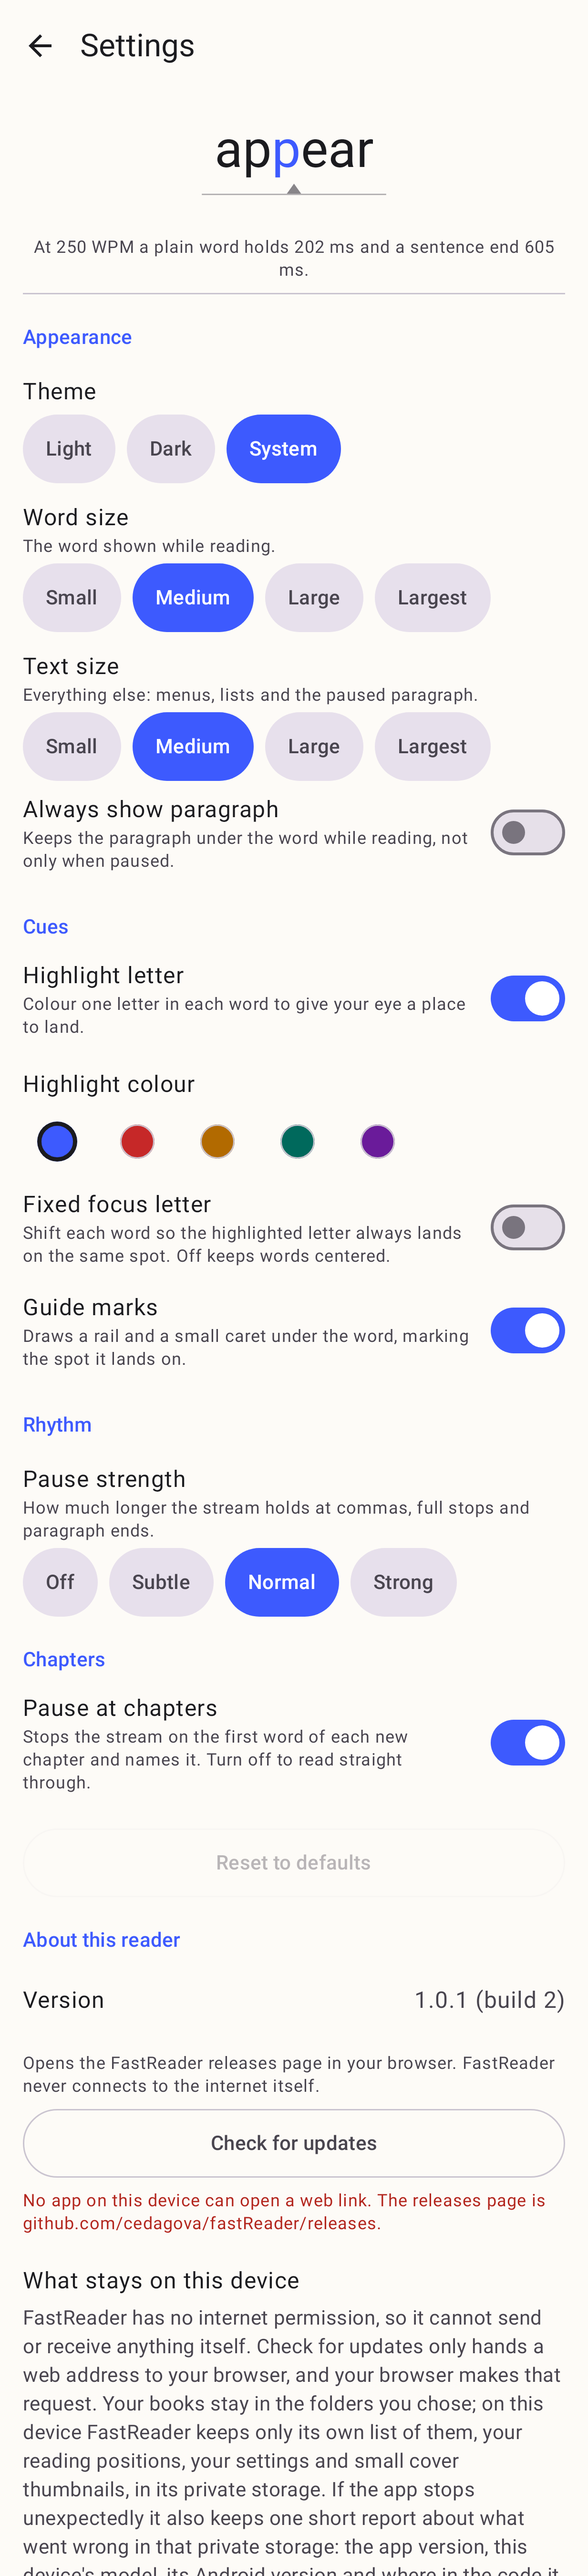
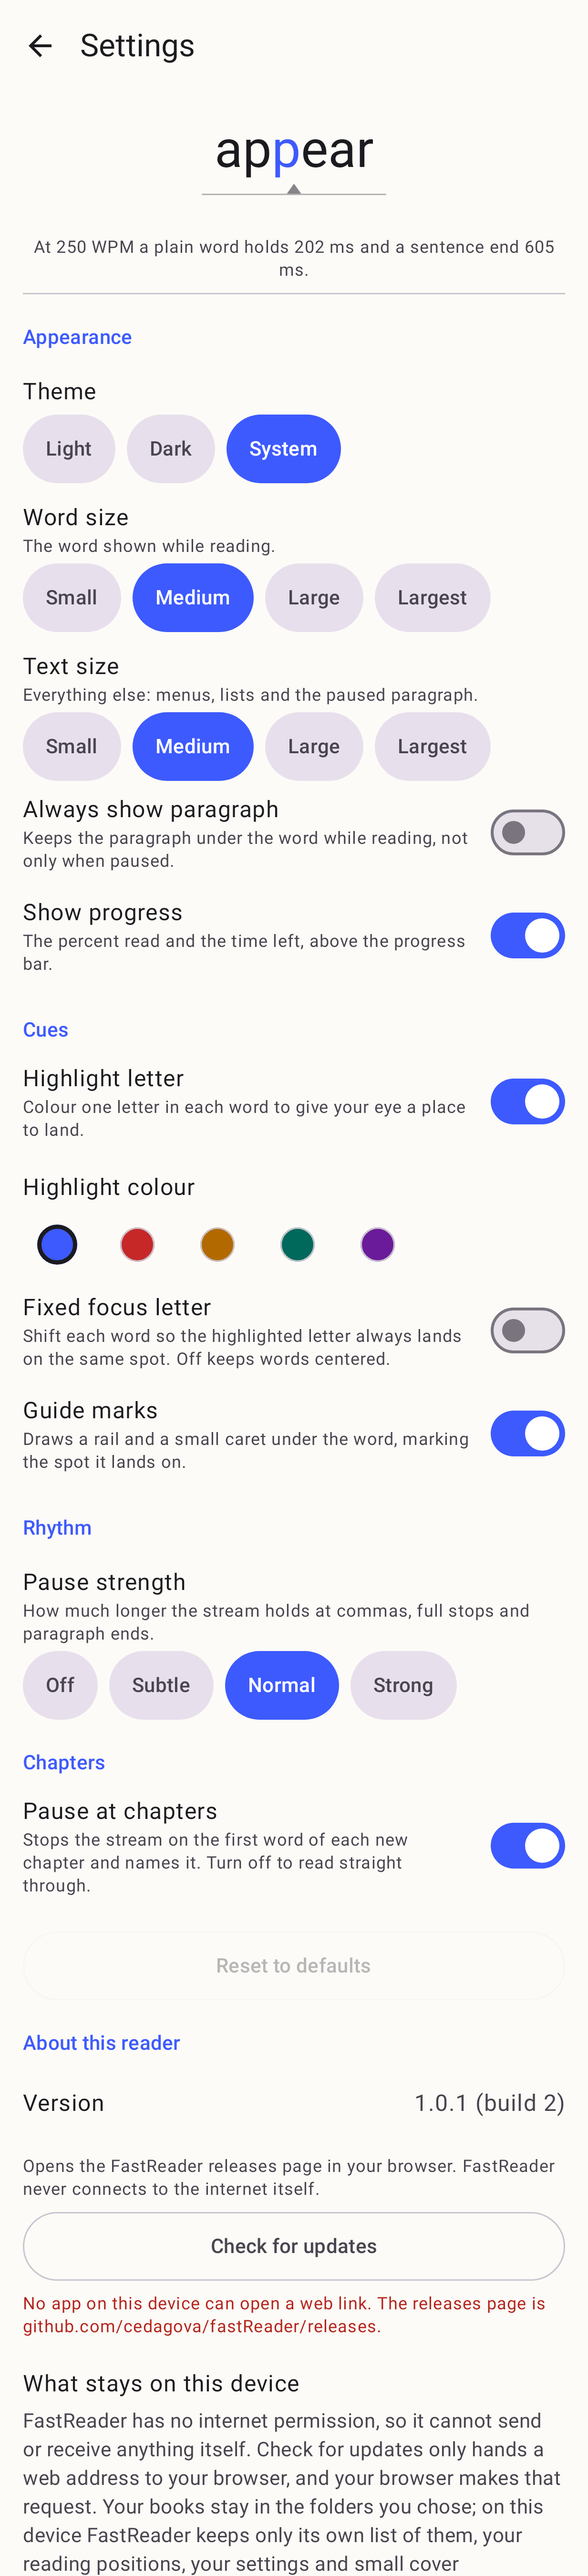
Add a "Show progress" setting for the percent and time-left readouts
A new Appearance switch, on by default, hides the two REQ-017 readouts above
the progress bar. The bar, which is also the scrub control, and the chapter
row stay. Catalog schema 10 writes `progressShown` as `true` so an updating
reader keeps what they had.

Tests: default and reset semantics, the 9 → 10 migration with and without a
settings block, store round trip, a reader golden with the readouts hidden,
and settings goldens re-recorded for the new row.

diff --git a/app/src/test/java/com/cedagova/fastreader/library/store/CatalogStoreTest.kt b/app/src/test/java/com/cedagova/fastreader/library/store/CatalogStoreTest.kt
@@ -647,6 +647,49 @@ class CatalogStoreTest {
     }
 
     /** The choice, once made, survives a round trip through the store. */
+    /**
+     * Schema 10 makes the progress readouts a choice. The updating reader keeps
+     * the percent and time they had: `progressShown` comes forward as `true`,
+     * written out, with every other setting where it was.
+     */
+    @Test
+    fun `a version 9 document keeps the progress readouts`() {
+        val v9 = """
+            {"schemaVersion":9,"books":[],"folders":[],"readingStates":{},
+             "settings":{"theme":"DARK","fontSize":"LARGE","wordSize":"SMALL","paragraphAlwaysShown":true}}
+        """.trimIndent()
+
+        val decoded = CatalogCodec().decode(v9) as CatalogDecoding.Decoded
+
+        assertEquals(9, decoded.migratedFrom)
+        assertEquals(CatalogSchema.CURRENT_VERSION, decoded.catalog.schemaVersion)
+        assertTrue(decoded.catalog.settings.progressShown)
+        assertTrue(decoded.catalog.settings.paragraphAlwaysShown)
+        assertEquals(ThemeChoice.DARK, decoded.catalog.settings.theme)
+        assertEquals(FontSize.LARGE, decoded.catalog.settings.fontSize)
+        assertEquals(FontSize.SMALL, decoded.catalog.settings.wordSize)
+    }
+
+    @Test
+    fun `a version 9 document without a settings block still migrates`() {
+        val noSettings = """{"schemaVersion":9,"books":[],"folders":[],"readingStates":{}}"""
+        val wrongShape = """{"schemaVersion":9,"books":[],"folders":[],"readingStates":{},"settings":7}"""
+
+        val decoded = CatalogCodec().decode(noSettings) as CatalogDecoding.Decoded
+        assertEquals(CatalogSchema.CURRENT_VERSION, decoded.catalog.schemaVersion)
+        assertTrue(decoded.catalog.settings.progressShown)
+        assertTrue(CatalogCodec().decode(wrongShape) !is CatalogDecoding.Newer)
+    }
+
+    @Test
+    fun `hidden progress readouts round trip through the store`() {
+        val store = FileCatalogStore(file)
+        store.save(Catalog(settings = ReaderSettings.DEFAULTS.copy(progressShown = false)))
+
+        val loaded = (store.load() as CatalogLoad.Loaded).catalog
+        assertFalse(loaded.settings.progressShown)
+    }
+
     @Test
     fun `the always-shown paragraph round trips through the store`() {
         val store = FileCatalogStore(file)

diff --git a/app/src/test/java/com/cedagova/fastreader/reader/ui/ReaderScreenScreenshotTest.kt b/app/src/test/java/com/cedagova/fastreader/reader/ui/ReaderScreenScreenshotTest.kt
@@ -4,6 +4,7 @@ import androidx.compose.runtime.Composable
 import androidx.compose.runtime.CompositionLocalProvider
 import androidx.compose.ui.platform.LocalDensity
 import androidx.compose.ui.test.junit4.createComposeRule
+import androidx.compose.ui.test.onNodeWithTag
 import androidx.compose.ui.test.onRoot
 import androidx.compose.ui.unit.Density
 import androidx.test.ext.junit.runners.AndroidJUnit4
@@ -121,6 +122,19 @@ class ReaderScreenScreenshotTest {
             pausedAt(0),
             frontMatterOffer = "Chapter One: The Approach",
         )
+    }
+
+    /**
+     * "Show progress" off: the percent and time-left readouts go, and nothing else
+     * does — the chapter row above them and the bar, which is the scrub control,
+     * below them stay exactly where they were.
+     */
+    @Test
+    fun hidingProgressRemovesOnlyTheTwoReadouts() {
+        capture("reader_progress_hidden", pausedAt(12), progressShown = false)
+        composeRule.onNodeWithTag("reader_progress").assertDoesNotExist()
+        composeRule.onNodeWithTag("reader_scrub").assertExists()
+        composeRule.onNodeWithTag("reader_chapters").assertExists()
     }
 
     @Test
@@ -516,6 +530,7 @@ class ReaderScreenScreenshotTest {
         externalNotice: Boolean = false,
         speedNotice: String? = null,
         frontMatterOffer: String? = null,
+        progressShown: Boolean = true,
     ) {
         composeRule.setContent {
             ScaledFonts(fontScale) {
@@ -536,6 +551,7 @@ class ReaderScreenScreenshotTest {
                         externalNotice = externalNotice,
                         speedNotice = speedNotice,
                         frontMatterOffer = frontMatterOffer,
+                        progressShown = progressShown,
                     )
                 }
             }

diff --git a/app/src/main/java/com/cedagova/fastreader/library/store/ProgressShownV10Migration.kt b/app/src/main/java/com/cedagova/fastreader/library/store/ProgressShownV10Migration.kt
@@ -1,0 +1,34 @@
+package com.cedagova.fastreader.library.store
+
+import kotlinx.serialization.json.JsonObject
+import kotlinx.serialization.json.JsonPrimitive
+
+/**
+ * Schema 9 → 10: the progress readouts become a choice.
+ *
+ * The percent read and the time left (REQ-017) have always sat above the
+ * progress bar. They can now be turned off, and this step decides what an
+ * updating reader gets: **what they had**. `progressShown` is written as `true`,
+ * so nothing under their stream changes on the first launch after the update.
+ *
+ * The value is written out rather than left to
+ * [com.cedagova.fastreader.settings.ReaderSettings]'s default, for the same
+ * reason every earlier step writes its decision: the migrated document then
+ * records what this step decided instead of inheriting a default a later change
+ * could move.
+ *
+ * A document with no `settings` block at all is returned exactly as it arrived:
+ * every field of that document already reads back as its documented default, and
+ * `progressShown` defaults to the same `true` this step would have written. A
+ * `settings` value that is not an object falls through untouched rather than
+ * throwing, because a throw here escapes [CatalogCodec.decode]'s guard and would
+ * set aside the reader's whole library.
+ */
+internal object ProgressShownV10Migration : CatalogMigration {
+
+    override fun migrate(document: JsonObject): JsonObject {
+        val settings = document["settings"] as? JsonObject ?: return document
+        val migrated = settings + ("progressShown" to JsonPrimitive(true))
+        return JsonObject(document + ("settings" to JsonObject(migrated)))
+    }
+}

diff --git a/app/src/main/java/com/cedagova/fastreader/reader/ui/ReaderScreen.kt b/app/src/main/java/com/cedagova/fastreader/reader/ui/ReaderScreen.kt
@@ -199,6 +199,8 @@ fun ReaderScreen(
     onChapterSelected: (Int) -> Unit,
     modifier: Modifier = Modifier,
     cues: CueSettings = CueSettings(),
+    /** REQ-017's readouts, the percent read and the time left. Off hides only them: the bar and chapter row stay. */
+    progressShown: Boolean = true,
     /** REQ-030: chrome hidden, stream and cues left alone. */
     focused: Boolean = false,
     onToggleFocused: () -> Unit = {},
@@ -332,6 +334,7 @@ fun ReaderScreen(
                             onBackParagraph = onBackParagraph,
                             onForwardParagraph = onForwardParagraph,
                             onScrub = onScrub,
+                            progressShown = progressShown,
                             onOpenChapters = { chapterPickerOpen = true },
                             modifier = slot,
                             verticalArrangement = arrangement,
@@ -961,6 +964,7 @@ private fun ReaderControls(
     onForwardParagraph: () -> Unit,
     onScrub: (Float) -> Unit,
     onOpenChapters: () -> Unit,
+    progressShown: Boolean,
     modifier: Modifier = Modifier,
     verticalArrangement: Arrangement.Vertical = Arrangement.Top,
 ) {
@@ -969,7 +973,7 @@ private fun ReaderControls(
         verticalArrangement = verticalArrangement,
     ) {
         ChapterRow(state = state, onOpenChapters = onOpenChapters)
-        ProgressRow(state)
+        if (progressShown) ProgressRow(state)
         PositionControl(state = state, onScrub = onScrub)
         Transport(
             state = state,

diff --git a/app/src/main/java/com/cedagova/fastreader/settings/ui/SettingsScreen.kt b/app/src/main/java/com/cedagova/fastreader/settings/ui/SettingsScreen.kt
@@ -209,6 +209,17 @@ fun SettingsScreen(
                     onCheckedChange = { onSettingsChange(settings.copy(paragraphAlwaysShown = it)) },
                     tag = "settings_paragraph_always_shown",
                 )
+                // The two readouts are numbers about the session, not the page.
+                // A reader who finds them a pull on the eye turns them off and
+                // keeps the bar, which is also the scrub control, and the
+                // chapter row, which is the way to the picker.
+                SwitchRow(
+                    label = stringResource(R.string.settings_progress_shown),
+                    summary = stringResource(R.string.settings_progress_shown_summary),
+                    checked = settings.progressShown,
+                    onCheckedChange = { onSettingsChange(settings.copy(progressShown = it)) },
+                    tag = "settings_progress_shown",
+                )
 
                 SectionHeading(stringResource(R.string.settings_section_cues))
                 SwitchRow(

diff --git a/app/src/main/java/com/cedagova/fastreader/library/store/CatalogSchema.kt b/app/src/main/java/com/cedagova/fastreader/library/store/CatalogSchema.kt
@@ -50,8 +50,10 @@ object CatalogSchema {
      * - **9** — the paragraph can stay on screen while the stream runs
      *   (`paragraphAlwaysShown`, written as `false` so an updating reader keeps
      *   the paused-only paragraph they had).
+     * - **10** — the progress readouts become a choice (`progressShown`, written
+     *   as `true` so an updating reader keeps the percent and time they had).
      */
-    const val CURRENT_VERSION: Int = 9
+    const val CURRENT_VERSION: Int = 10
 
     /**
      * Forward migrations keyed by the version they upgrade *from*; each step must
@@ -67,6 +69,7 @@ object CatalogSchema {
         6 to ContentFingerprintV7Migration,
         7 to WordSizeV8Migration,
         8 to ParagraphAlwaysShownV9Migration,
+        9 to ProgressShownV10Migration,
     )
 }
 

diff --git a/app/src/main/java/com/cedagova/fastreader/settings/ReaderSettings.kt b/app/src/main/java/com/cedagova/fastreader/settings/ReaderSettings.kt
@@ -133,6 +133,16 @@ data class ReaderSettings(
      * [com.cedagova.fastreader.library.store.ParagraphAlwaysShownV9Migration].
      */
     val paragraphAlwaysShown: Boolean = false,
+    /**
+     * Show the percent read and the time left above the progress bar (REQ-017).
+     * **On by default**, which is what every reader has had. Off hides the two
+     * readouts only: the bar, which is also the scrub control, and the chapter
+     * row stay, because both are ways to move rather than numbers to glance at.
+     *
+     * A document written before schema 10 reads this back as `true` — see
+     * [com.cedagova.fastreader.library.store.ProgressShownV10Migration].
+     */
+    val progressShown: Boolean = true,
 ) {
 
     /**

diff --git a/app/src/test/java/com/cedagova/fastreader/settings/ReaderSettingsTest.kt b/app/src/test/java/com/cedagova/fastreader/settings/ReaderSettingsTest.kt
@@ -79,6 +79,13 @@ class ReaderSettingsTest {
         assertFalse(ReaderSettings.DEFAULTS.copy(paragraphAlwaysShown = true).isDefault)
     }
 
+    /** The progress readouts are on by default, and hiding them is a change from the defaults. */
+    @Test
+    fun `the progress readouts are shown by default`() {
+        assertTrue(ReaderSettings.DEFAULTS.progressShown)
+        assertFalse(ReaderSettings.DEFAULTS.copy(progressShown = false).isDefault)
+    }
+
     /** The two cues are separate choices, so all four combinations are reachable. */
     @Test
     fun `the highlight and the alignment move independently`() {

diff --git a/app/src/main/java/com/cedagova/fastreader/reader/ui/ReaderRoute.kt b/app/src/main/java/com/cedagova/fastreader/reader/ui/ReaderRoute.kt
@@ -218,6 +218,7 @@ fun ReaderRoute(
         onChapterSelected = reader::jumpToChapter,
         modifier = modifier,
         cues = settings.cues,
+        progressShown = settings.progressShown,
         focused = focused,
         onToggleFocused = { focused = !focused },
         speedNotice = notice?.text,
